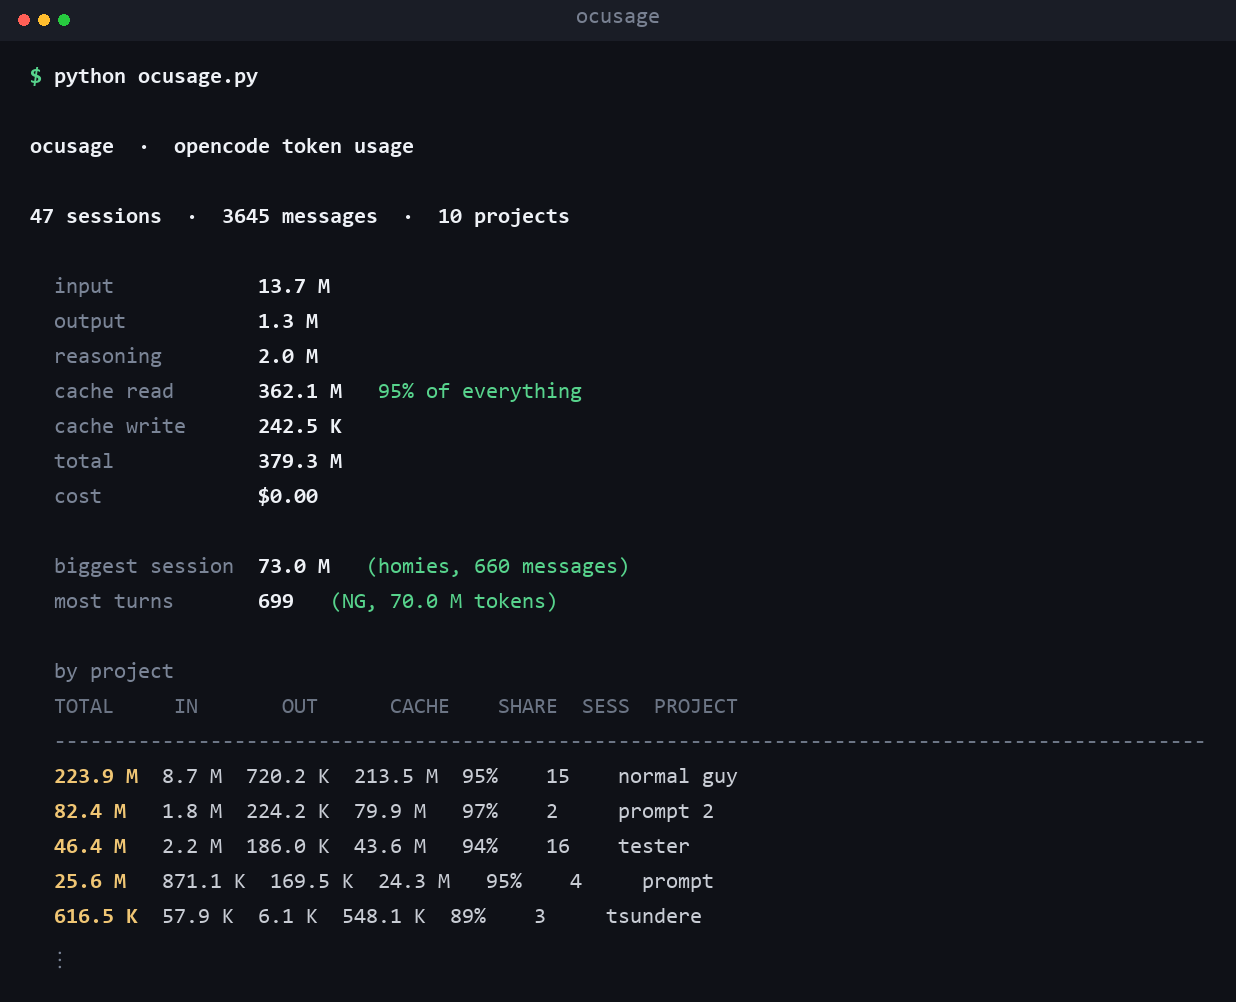
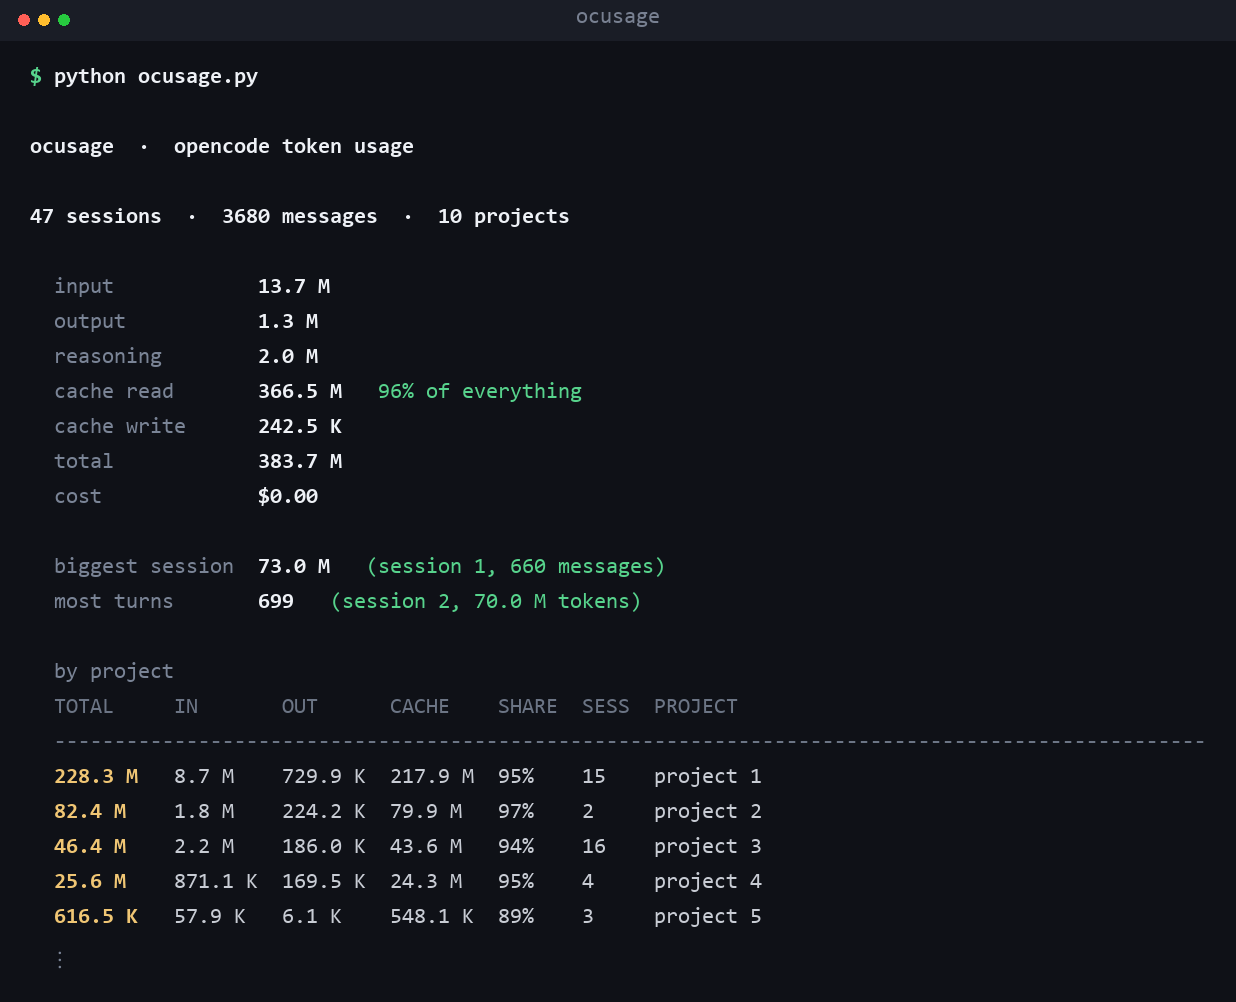
docs: number the projects and sessions in the screenshot
Project and session names become project 1, session 1, and so on. Token counts are unchanged.

Changed region(s): [[0.123, 0.7425, 0.6149, 0.9281], [0.2767, 0.5569, 0.5227, 0.6188], [0.2152, 0.4331, 0.246, 0.4641]]

diff --git a/README.md b/README.md
@@ -8,6 +8,8 @@ The usage panel shows the session you are in right now. It forgets everything wh
 
 <img src="docs/demo.png" width="820" alt="ocusage printing token totals, the 95% cache share, and usage per project">
 
+<sub>Project and session names are replaced with numbers. The token counts are real.</sub>
+
 ## What it tells you that the panel does not
 
 - **Which project eats your quota.** One repo can be 60% of everything you have ever spent.
